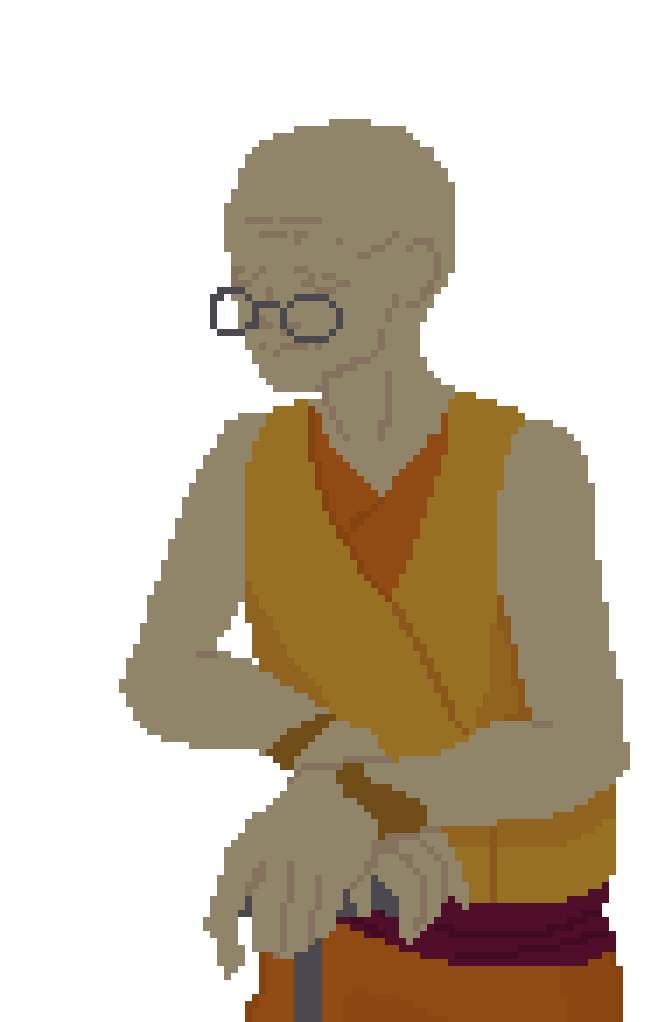
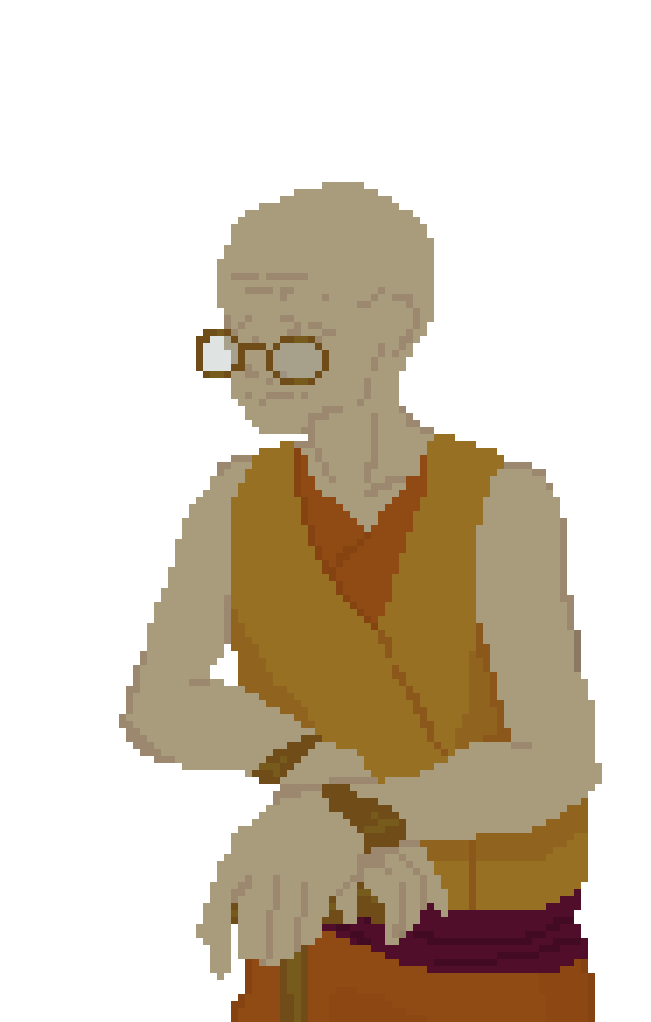
journal

diff --git a/journal/journal.md b/journal/journal.md
@@ -21,3 +21,12 @@
 <p>As I wrote on Miro, this was my first time doing a challenge as a way to structure my out-of-class work. I think it was mostly successful.</p>
 <p>My thoughts on this project are already so disorganized because I have more ideas for things to put in it, but I am really trying to forget about them when researching. One thing I realized while doing this challenge is that the narrative structure I had imagined would technically conflict with the structure of a whodunnit, because the player is interfering with the events as they happen... however, considering the meta-structure from loop to loop, the player does experience the crime as a whodunnit where they can gradually experience more of the past by learning how to access hidden information. This gives me a new idea for how to draw the game's structure.</p>
 <p>Is this way of journaling as good? I mean, I am having a hard time organizing my thoughts. At least I can sort out my irrelevant asides here. So I guess it is good, because it's helping me sort ideas out.</p>
+<center><h2>Post-challenge 2 reflections (17.07)</h2></center>
+<p>The research for this one was interesting, because it was a lot of taking relevant snippets from the different sources and just collaging them together. I started with general puzzle stuff, then wasn't sure how much of it was applicable to adventure game puzzles, then I wasn't even sure what adventure game puzzles are much less *good* adventure game puzzles. I ended up with a few threads of thought: one is how to gate progress behind certain knowledge. I did this also in my last game, and it was one of the original inspirations for this game also, the idea that you're getting to see things in later loops that were happening all along but you wouldn't be able to access without knowing where to look. The problem is that it's easy for the player to just go everywhere if they know what all the locations are, but it's hard to not give the player all the locations' names because then the game would just be text-parser argument simulator.</p>
+<p>I played two games for this, documented my playthroughs, and reverse-engineered, which was a good exercise. I'm still not sure I got all the relevant complexities of Sexy Brutale, maybe it would have been good not to generalize it to all the puzzles yet but to specifically diagram the first tutorial puzzle I played? Not sure.</p>
+<p>In the end it also kind of became a different challenge. I didn't look at "adventure game" puzzles as I think of them - but then, I did look at a text parser game and a game that's clearly descended from point-and-click adventure games, down to being made by Double Fine. So I kind of did complete the assignment? (The assignment that I created for myself anyway so there are no consequences for failing)</p>
+<p>The time loop structure is also interesting as a gameplay thing. I didn't realize until I happened to be watching that youtube video (not even for this! It was just playing in the background) that The Sexy Brutale also uses time looping for its puzzle information structure, and I needed to do a playthrough of that game anyway. (Will probably keep playing later, I just did one puzzle for this purpose.)</p>
+<p>It didn't make it onto the Miro board because I realized it doesn't actually have text-adventure mechanics despite calling itself a text-adventure game but I also played a mystery interactive fiction thing that said in its summary, "Your eidetic memory is represented as your ability to reread all the text, your vast knowledge of the world is represented by your ability to use the internet, and your quick thinking is represented by your infinite amount of time to make choices" and I thought that was a great tagline for a text-based web-based decision-based mystery game.</p>
+<p>A big breakthrough was realizing that I need to give the player some kind of immediate feedback whenever they complete any action that will effect a later event. I was validated to see that Sexy Brutale does this by skipping from the moment the murder plot is foiled to the direct result of that, the botched murder attempt.</p>
+<p>Finally, I think the idea of investigating/stopping a murder could tie in really well to the original draw of "interactive fiction": Not puzzle solving, it's just about doing some action in a world that you think is built well enough to have that action achieve some certain effect. I think combining this with the gating by deduction idea can get me somewhere. I was also really inspired by Type Help having such a consistent format for its commands (completely separate from normal text adventure commands) that I was able to make the leap to find the final snippets with person 12 and person K.</p>
+<p>Not sure if I will work on that or worldbuilding next, I'm tempted to do mechanics first because the worldbuilding will probably be fluffier and I have momentum going for the puzzle gating thing, but I do think that just writing a really solid description and getting some sources could be a productive use of that energy also (although then sometimes it turns into me just doing the challenge...)</p>